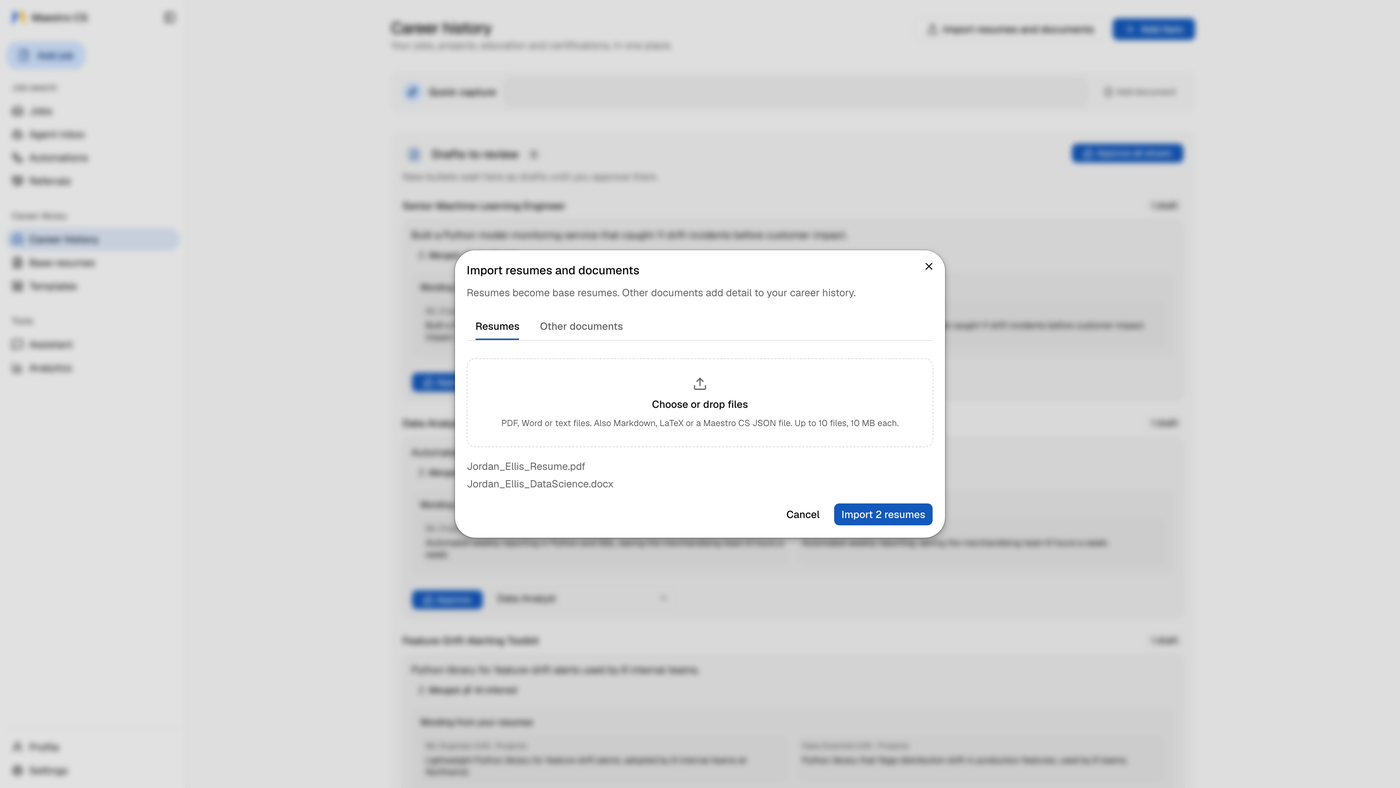
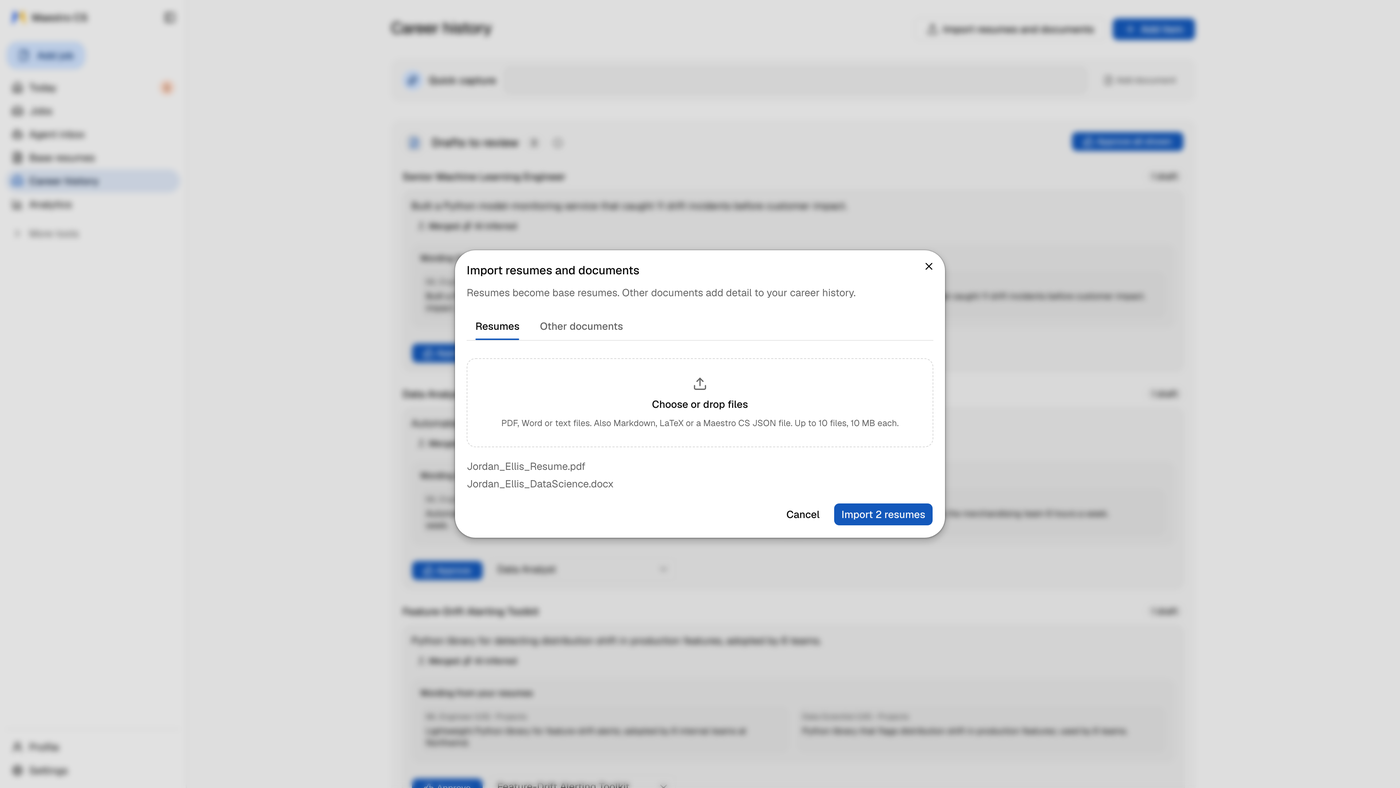
docs(guide): 0.12.0 screenshots and captions
Retake the guide's screenshots with the fictional demo persona (agent-inbox,
analytics, applications, base-resume, connected-agents, health-report,
kb-import, kb-onboarding, templates) and add setup, profile, today,
settings-basics, automations and money. Every caption now says only what its
image shows, in the app's current words: Jobs opens on All active, Settings ›
Agent apps, Analytics as one page led by "Where your applications went", and
the Agent inbox's Needs you / To review / Queued groups. A new "0. Set up in
four steps" covers Setup, Profile and Today; section 5 names the three jobs in
Settings › Basics › AI model. One provenance comment replaces the old dated
ones, and deferred item 59 leaves the ledger now that connected-agents.png is
retaken.

diff --git a/docs/USING_MAESTRO.md b/docs/USING_MAESTRO.md
@@ -91,9 +91,32 @@ that read as machine-written — so the leverage is in depth per application.
   description. It is not an employer's score or a prediction of an interview.
 - **AI service** — OpenAI, Gemini or Claude, whichever you choose.
 
+### 0. Set up in four steps
+
+<!-- Screenshots in this guide (all but extension.gif) were retaken 2026-10-22
+     for 0.12.0 with the fictional demo persona; sources in the private
+     marketing repo (site-media-1022/). -->
+
+![Setup: four steps, each with its time, and the first one open: pick the AI that does the writing and add its key](assets/setup.png)
+
+A new install opens **Setup** once. It walks through four steps: **AI model**,
+**Your resume**, **Where and what** and **Form answers**. Any step can wait
+(**Skip for now**), and **Run setup again** is in Settings › Basics.
+
+![Profile: the next open question at the top, then one tile for each kind of fact, such as Contact, Where you apply, Work permits and Start and pay](assets/profile.png)
+
+**Profile** then holds the facts job forms ask for, one tile each. **Next up**
+at the top asks the next question still open.
+
+![Today: Next up with where that job stands and its next move, three counts under Also today, and this week's applications, replies and interviews](assets/today.png)
+
+**Today** is the home page. **Next up** is the job to act on now, **Also
+today** counts what else is waiting, and **This week** counts what you applied
+to and what came back.
+
 ### 1. Build your career history first (once)
 
-![Drop in your resumes, get your career history](assets/kb-onboarding.png)
+![Career history › Import resumes and documents: resumes on one tab become base resumes, other documents on the second tab add detail to your career history](assets/kb-onboarding.png)
 
 Upload **every** resume version you have — old ones, role-specific ones, the
 too-long one. Maestro merges duplicates across them and builds one **career
@@ -101,8 +124,8 @@ history**: your verified record in one place.
 
 This step pays off every time. Everything later is built from approved bullets,
 so its quality is the ceiling on everything else. Add certifications,
-project write-ups and performance-review notes too — anything true about your
-work can become evidence later. Import PDF, DOCX, PowerPoint (.pptx, including
+project write-ups and performance-review notes too, under **Other documents** —
+anything true about your work can become evidence later. Import PDF, DOCX, PowerPoint (.pptx, including
 speaker notes), Markdown or text files.
 
 > **Review your drafts before tailoring.** Bullets taken unchanged from your files
@@ -112,22 +135,14 @@ speaker notes), Markdown or text files.
 
 ### 2. Build a base resume per career track
 
-<!-- base-resume.png refreshed 2026-08-23 (post UI-clarity round). Contact
-     header is the approved public set (sanitized +1-999-999-9999,
-     ajey@seinun.com); "Liberty Hill, TX" experience location previously
-     reviewed and accepted. 1400px wide to match the asset set. -->
-
-![One base resume per track, with its health grade and live preview](assets/base-resume.png)
+![A base resume for one track: its health grade, template and sections on the left, the one-page PDF preview on the right](assets/base-resume.png)
 
 One base per kind of role you actually target (such as *Data Scientist* or *ML
 Engineer*) — not one per job. **New base resume › From career history** suggests
 which entries belong, with a reason for each one it leaves out, plus a drafted
 summary.
 
-<!-- kb-import.png captured 2026-08-23: the editor's Add from career history
-     drawer; background contact panel deliberately blurred at capture time. -->
-
-![Adding bullets from your career history is explicit and versioned](assets/kb-import.png)
+![Add from career history: tick the bullets to add to this resume; drafts are not offered, and Version history can undo it](assets/kb-import.png)
 
 The optional instruction box steers the *shape*, not the facts: "lead with
 pipeline and cloud work, keep it mid-level, leave off teaching." **Bullets are
@@ -136,31 +151,35 @@ what keeps a generated resume defensible.
 
 ### 3. Save the job, then close the gaps
 
-![Every job you have saved, each with its Next step, from saved to signed](assets/applications.png)
+![Jobs on All active, which leaves out closed jobs: each row has its match score, status and Next step](assets/applications.png)
 
 Paste the job description (**Add job**) or save it with the Companion. Saving
 scores it against your base resumes, and **Save job** opens the job on its
 **Resume and gaps** step. Scoring uses no AI service, so the same
-resume and job always get the same number. On **Jobs**, each row's **Next step**
-says what the job is waiting for.
+resume and job always get the same number. **Jobs** opens on **All active**;
+closed jobs are under **Closed**. Each row's **Next step** says what the job is
+waiting for.
 
-<!-- Screenshots in this guide were retaken 2026-10-12 on v0.10.1 with the
-     fictional demo persona (Jordan Ellis, example.com, sample-company names);
-     sources live in the private marketing repo (site-media/). -->
-
-![A job's four numbered steps, its score and details, with a check of its stated requirements against your profile](assets/job-overview.png)
+![A saved job on its Job step: the header with company, place, pay, Resume match and status, the four steps with their numbers, and the job's details from No knock-outs to work authorization and OPT](assets/job-overview.png)
 
 Every saved job also gets a **requirements check**: what the posting *states*
 about work authorization, visa (OPT) policy, salary and years of experience,
 compared with your profile — so a mismatch shows up now, not at the screening
 call. It is a banner only when something blocks you (a conflict, or an answer
-your profile is missing); otherwise it is one small line in the job's details.
+your profile is missing); otherwise it is one small line in the job's details
+(**No knock-outs**), with a chip for anything worth a look.
+
+![A London job's details: the pay converted to US dollars with the posted pounds under it, and a pay warning because it tops out below the desired salary](assets/money.png)
+
+Pay posted in another currency shows in your home currency (Settings › Basics ›
+**Money**), with the amount as posted under it.
 
 The top of a job's page answers two things: what you do next, and where the job
 stands. The header carries one status and one score (**Resume match** once the
 job has its own tailored resume, **Best base resume** before). Under it are four
 numbered steps, **Job**, **Resume and gaps**, **Tailored resume** and **Apply**,
-each with one line saying what is done or what comes next. A job has one
+each with a bar and, where there is one, a single number: the skills found, the
+gaps closed, the score before and after tailoring. A job has one
 application: tailoring it with another resume replaces the draft after asking,
 and version history keeps the old one.
 
@@ -189,6 +208,15 @@ Cover letter, screening answers, and the PDF. Read everything before it goes
 anywhere — it's your name on it.
 
 ### 5. Choose your models deliberately
+
+![Settings › Basics: the AI model card with the model for each of three jobs (reads jobs and documents, tailors and writes, runs the Assistant), Use recommended models and the API key, then the Money, Resume PDFs and Appearance cards](assets/settings-basics.png)
+
+**Settings › Basics › AI model** shows the model doing each everyday job:
+**Reads jobs and documents** is the Fast role, **Tailors and writes** the Smart
+role and **Runs the Assistant** the Assistant role. **Test** checks them.
+**Change provider** or **Use recommended models** switches every role to one
+provider's recommended models at once; with **Use recommended models** off,
+each role uses the model you pick in Advanced.
 
 **Settings › Advanced › Model per job** has four model roles: **Fast** (reading postings, bulk work),
 **Smart** (tailoring, finding gaps), **Assistant** (the in-app Assistant) and
@@ -224,7 +252,7 @@ may keep.
 Neither OpenAI nor Gemini is better overall, and any OpenAI-compatible model can be used instead.
 A fresh install starts with the OpenAI setup, because a model that misses
 requirements quietly *inflates* your score — by about nine points in our tests.
-With only a Gemini or Claude key, switch the Fast, Smart and Assistant roles in **Settings › Advanced › Model per job** (or set
+With only a Gemini or Claude key, pick it under **Change provider** in Basics, or switch the Fast, Smart and Assistant roles in **Settings › Advanced › Model per job** (or set
 `FAST_MODEL`/`SMART_MODEL`/`CHAT_MODEL` in `.env`). The Reasoning model follows your Smart model's provider
 until you pick one. Press **Test** next to each model
 to check it works; **Find Gemini models** (or **Find OpenAI models**, **Find Claude models**) lists
@@ -237,7 +265,7 @@ Claude (Desktop or Code), the ChatGPT desktop app or the Codex CLI can run the
 whole process in conversation — read a posting, score it, work the gaps, make
 the PDF. It runs on **your computer** against **your** data.
 
-![Settings › Agent apps: what a connected agent can and can't do, and the one-line command to connect Claude Code or Codex](assets/connected-agents.png)
+![Settings › Agent apps: Connect an agent app with its Tool set, one-line commands for Claude Code and Codex CLI, steps for the Codex app, buttons for Cursor, VS Code and Claude Desktop, a URL for any MCP agent, and Full automation, off](assets/connected-agents.png)
 
 <!-- TODO(P4) mcp-chat.png — a SECOND shot for this section is still open: a
      Claude conversation answering a real question over the explore tools
@@ -260,7 +288,7 @@ and choose a **Tool set**:
   Desktop's settings. Desktop rewrites that file while it runs, so with Desktop
   open the command waits, writes the entry after you quit it, and `--now` writes at once.
 - **URL clients** — Claude Code and Codex CLI get a copyable command; Cursor and
-  VS Code get install buttons; other HTTP MCP clients get a URL. The default is
+  VS Code get install buttons; the Codex app and **Any MCP agent** get a URL. The default is
   `http://localhost:8001/mcp`. Use `/mcp` exactly — no trailing slash.
 
 **On a uv install, `maestro connect` does this from the terminal.** With no app
@@ -353,11 +381,11 @@ style, how your writing should sound. Set it once in Profile › How you come ac
 type; a draft from your career history waits until you read it and press Use this draft), and every generated document
 uses that voice. It shapes tone and emphasis only — never facts.
 
-### Health Report — is this resume sound at all?
+### Health report — is this resume sound at all?
 
-![A grade for the resume on its own, and what each problem is costing you](assets/health-report.png)
+![Health report: a grade and score for one resume on its own, what is left to fix sorted into tabs, and a question for each finding](assets/health-report.png)
 
-A gap needs a job. A **Health Report** doesn't: it checks one resume on its own —
+A gap needs a job. A **Health report** doesn't: it checks one resume on its own —
 can it be read by application systems, are the dates right, is the evidence
 strong, is the format sound. A serious problem **blocks** tailoring, because
 tailoring can't fix a broken resume. You can **Mark as OK** a check you disagree with, with a reason
@@ -365,7 +393,7 @@ on record.
 
 ### Templates you actually own
 
-![LaTeX and Typst templates, built on your computer](assets/templates.png)
+![Templates: six ready designs, each previewed with sample content, the default marked with a star](assets/templates.png)
 
 Switching templates is a button, not a rebuild: your content stays the same and
 renders through any template. There are two kinds — **LaTeX** and **Typst** —
@@ -506,25 +534,32 @@ where autofill misses; **Clear data** there deletes it.
 
 ### Analytics: what the market keeps asking you for
 
-![Your search in numbers: applications over time, where they stand, and the gaps that keep coming up](assets/analytics.png)
+![Analytics: Where your applications went (applied, heard back, interview, offer, as counts until a rate shows from 20), four tiles, each week's applications and replies, results by resume, and the jobs you saved](assets/analytics.png)
+
+**Analytics** is one page. It opens on **Where your applications went**: how
+many you applied to, heard back from, interviewed for and got an offer from.
+Each share reads as a count, such as 6 of 9 applications, until there are 20 to
+count from (**A rate shows from 20**).
 
 Every saved job adds to a picture of the market you're applying into — top
-skills, a skill heatmap, role mix over time — filterable by role, level and job
-type. The most useful view is **Skill gaps**: skills jobs keep asking for,
+skills, a skill heatmap, role mix over time — under **Market in detail**,
+filterable by role, level and job type. The most useful view is **Skill gaps**: skills jobs keep asking for,
 marked as *not in your career history*, *in your career history* or *used before*. Frequent
 and missing is worth learning next; frequent and already in your history is
-something you have but keep forgetting to say. **Resume fit** shows the score
-before and after tailoring for each base resume, so you can see whether
+something you have but keep forgetting to say. **Match scores in detail** shows
+how much tailoring raised the score for each base resume, so you can see whether
 tailoring is helping.
 
 ### Hunt with the agent you already use
 
-![Your Agent inbox: one line of what is waiting, then what a hunt found for your review](assets/agent-inbox.png)
+![Agent inbox: three counts at the top, then Needs you (a question from your agent), To review (jobs your agents found, each with its best resume and score) and Queued](assets/agent-inbox.png)
 
 Your AI assistant can job-hunt for you. It reads your job preferences from the
 app, finds postings on whatever sites it can use, saves and scores them against
 your resumes, and hands back a ranked shortlist for you to review. There's no
 job-board integration to be locked into.
+
+![Automations: copy a prompt, your agent schedules it, each run reports here; then the automations that are reporting, each with its last 14 days and newest report, and those with no reports yet](assets/automations.png)
 
 Ready-made skills (`job-hunt`, `apply-session`, `apply-auto`, `mail-status`, `referral-pages`,
 `tailor-run`) are in [`docs/skills/`](skills/) — copy a prompt from the
@@ -549,8 +584,9 @@ part rather than skim it.
 
 A job your agent finds becomes a **proposal**. You review proposals in the
 **Agent inbox** and **Queue** or **Skip** them (in bulk if you like). The inbox
-opens with one line of what is waiting (how many need you, wait for review, are
-queued, or went out this week), then only the lanes that have something in them. The search and
+opens with one line of counts (how many wait for review, are queued, or went
+out this week), then only the groups that have something in them, such as
+**Needs you**, **To review** and **Queued**. The search and
 filters appear once the inbox holds more than ten, and the daily limit shows when
 you are close to it. What each automation run did is on the **Automations** page. An
 apply run then works **only the ones you queued**: it tailors, renders and

diff --git a/docs/deferred.md b/docs/deferred.md
@@ -135,10 +135,6 @@
     before another save overwrites that save's answers for the same country (`work_auth_market` protects only other countries'
     answers). It needs an `expected_updated_at` with a 409 when the profile moved, as the resume draft has. Do when a lost
     same-country edit is reported, or the autofill PUT is next changed.
-59. A picture from before the refresh: `docs/assets/connected-agents.png` (USING_MAESTRO's Agent apps section) shows the
-    old Settings tab; its alt text is current. The design-system previews are listed under "Not synced" in
-    `docs/design-system/README.md`. Do when the screenshots are next retaken, or that section of USING_MAESTRO is next
-    changed.
 60. `frontend/.slopconfig.json` (`allowed_clones`) and `frontend/.slop-baseline.json` still name
     `components/settings/autofill-section.tsx`, which the Profile rebuild split into `components/profile/*`, so the slop ratchet
     (maintainer-run, SYSTEM.md §9) reads a pair that no longer exists. Do when the frontend slop ratchet is next run: drop the pair
